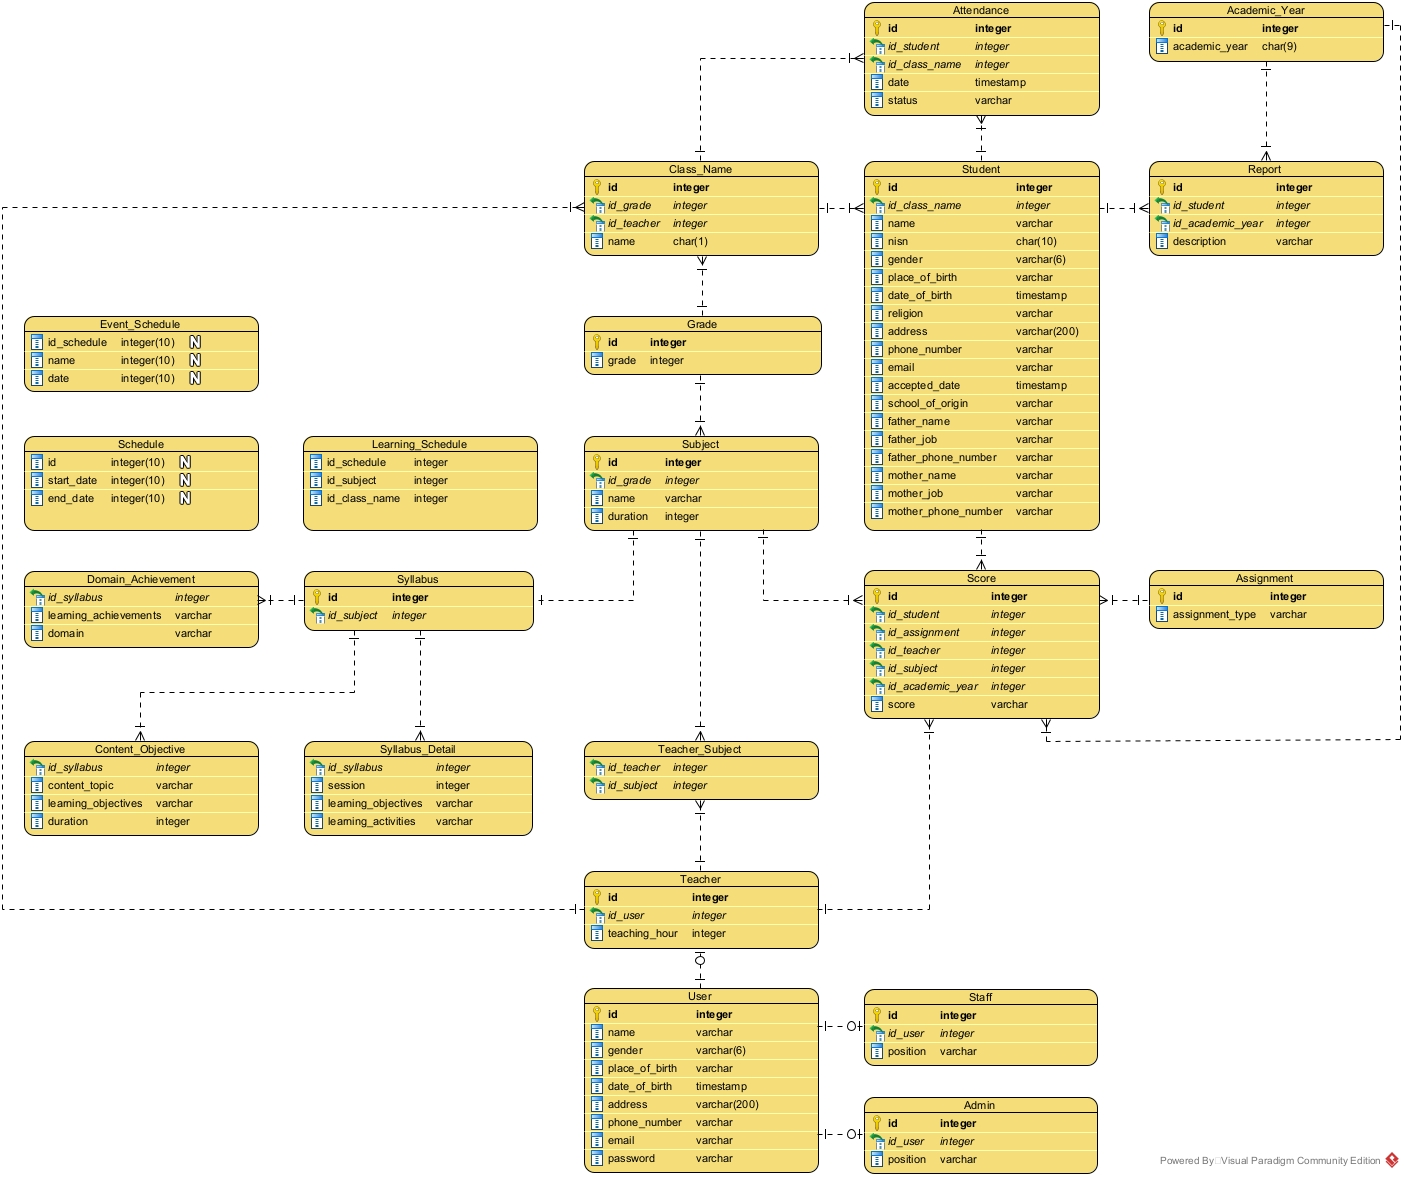
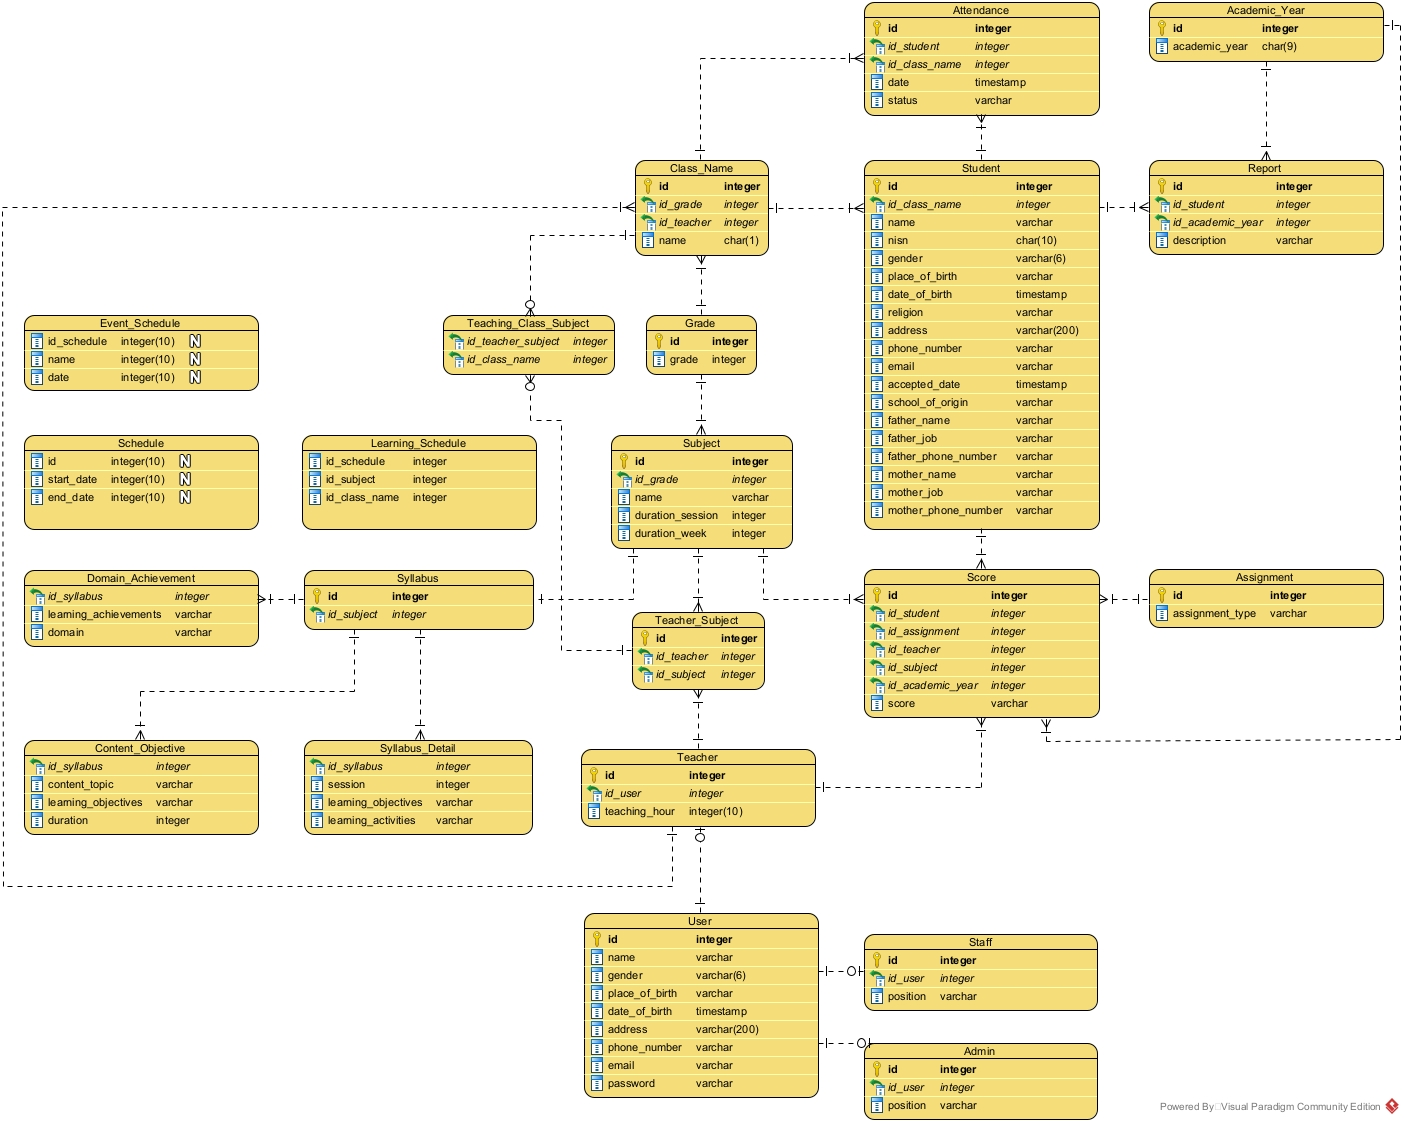
feat(subject): update subject model and controller to include duration per session and duration per week and update erd image table

diff --git a/database/migration/subject_migration.go b/database/migration/subject_migration.go
@@ -10,12 +10,13 @@ import (
 * https://gorm.io/docs/models.html#Fields-Tags
  */
 type Subject struct {
-	SubjectID              int64            `gorm:"primaryKey;autoIncrement"`
-	GradeID                int64            `gorm:"not null"` // GradeID is the foreign key
-	SubjectName            string           `gorm:"unique;not null"`
-	SubjectDurationMinutes int              `gorm:"not null"`
-	TeacherSubjects        []TeacherSubject `gorm:"foreignKey:SubjectID;references:SubjectID;constraint:OnUpdate:SET NULL,OnDelete:SET NULL"`
-	lib.BaseModel                           /* this type include CreatedAt, UpdatedAt, DeletedAt, I can't use the gorm.models because can't customize the id name */
+	SubjectID          int64            `gorm:"primaryKey;autoIncrement"`
+	GradeID            int64            `gorm:"not null"` // GradeID is the foreign key
+	SubjectName        string           `gorm:"unique;not null"`
+	DurationPerSession int              `gorm:"not null"`
+	DurationPerWeek    int              `gorm:"not null"`
+	TeacherSubjects    []TeacherSubject `gorm:"foreignKey:SubjectID;references:SubjectID;constraint:OnUpdate:SET NULL,OnDelete:SET NULL"`
+	lib.BaseModel                       /* this type include CreatedAt, UpdatedAt, DeletedAt, I can't use the gorm.models because can't customize the id name */
 }
 
 /*

diff --git a/controllers/subjectController.go b/controllers/subjectController.go
@@ -10,10 +10,10 @@ import (
 func GetAllSubject(c *gin.Context) {
 	// Get all subjects
 	type DTOAllSubjects struct {
-		SubjectID              int64  `json:"subject_id"`
-		Grade                  int    `json:"grade"`
-		SubjectName            string `json:"subject_name"`
-		SubjectDurationMinutes int    `json:"subject_duration_minutes"`
+		SubjectID          int64  `json:"subject_id"`
+		Grade              int    `json:"grade"`
+		SubjectName        string `json:"subject_name"`
+		DurationPerSession int    `json:"subject_duration_minutes"`
 	}
 	var subject models.SubjectModel
 	subjects, err := subject.GetAllSubjects()
@@ -26,10 +26,10 @@ func GetAllSubject(c *gin.Context) {
 	var subjectsDTO []DTOAllSubjects
 	for _, subject := range subjects {
 		subjectsDTO = append(subjectsDTO, DTOAllSubjects{
-			SubjectID:              subject.SubjectID,
-			Grade:                  subject.Grade.Grade,
-			SubjectName:            subject.SubjectName,
-			SubjectDurationMinutes: subject.SubjectDurationMinutes,
+			SubjectID:          subject.SubjectID,
+			Grade:              subject.Grade.Grade,
+			SubjectName:        subject.SubjectName,
+			DurationPerSession: subject.DurationPerSession,
 		})
 	}
 

diff --git a/database/seed/subjectSeeder.go b/database/seed/subjectSeeder.go
@@ -8,24 +8,28 @@ import (
 func SubjectSeeder() (subjects []models.Subject) {
 	subjects = []models.Subject{
 		{
-			GradeID:                1,
-			SubjectName:            "Math",
-			SubjectDurationMinutes: 60 * 4,
+			GradeID:            1,
+			SubjectName:        "Math",
+			DurationPerSession: 60 * 4,
+			DurationPerWeek:    60 * 4 * 3,
 		},
 		{
-			GradeID:                1,
-			SubjectName:            "Science",
-			SubjectDurationMinutes: 60 * 4,
+			GradeID:            1,
+			SubjectName:        "Science",
+			DurationPerSession: 60 * 4,
+			DurationPerWeek:    60 * 4 * 2,
 		},
 		{
-			GradeID:                1,
-			SubjectName:            "Biology",
-			SubjectDurationMinutes: 60 * 4,
+			GradeID:            1,
+			SubjectName:        "Biology",
+			DurationPerSession: 60 * 4,
+			DurationPerWeek:    60 * 4 * 4,
 		},
 		{
-			GradeID:                1,
-			SubjectName:            "PKN",
-			SubjectDurationMinutes: 60 * 2,
+			GradeID:            1,
+			SubjectName:        "PKN",
+			DurationPerSession: 60 * 2,
+			DurationPerWeek:    60 * 4 * 5,
 		},
 	}
 

diff --git a/database/models/subjectModels.go b/database/models/subjectModels.go
@@ -8,10 +8,11 @@ import (
 )
 
 type Subject struct {
-	SubjectID              int64  `gorm:"primaryKey"`
-	GradeID                int64  `json:"id_grade" binding:"required"`
-	SubjectName            string `json:"name" binding:"required"`
-	SubjectDurationMinutes int    `json:"duration" binding:"required" validate:"gte=0"`
+	SubjectID          int64  `gorm:"primaryKey"`
+	GradeID            int64  `json:"id_grade" binding:"required"`
+	SubjectName        string `json:"name" binding:"required"`
+	DurationPerSession int    `json:"duration_session" binding:"required" validate:"gte=0"`
+	DurationPerWeek    int    `json:"duration_week" binding:"required" validate:"gte=0"`
 	lib.BaseModel
 }
 
